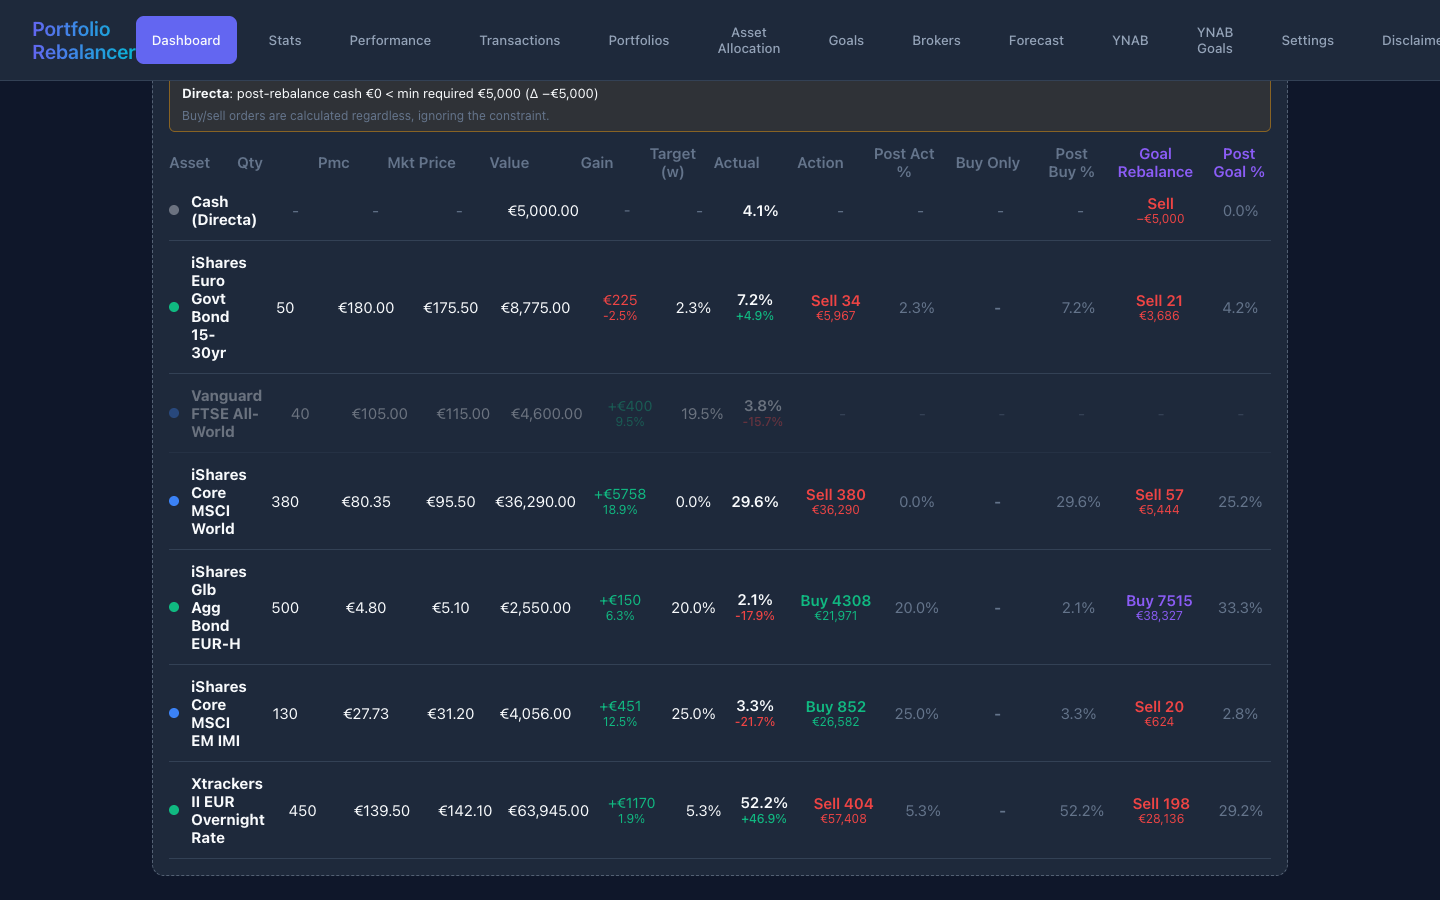
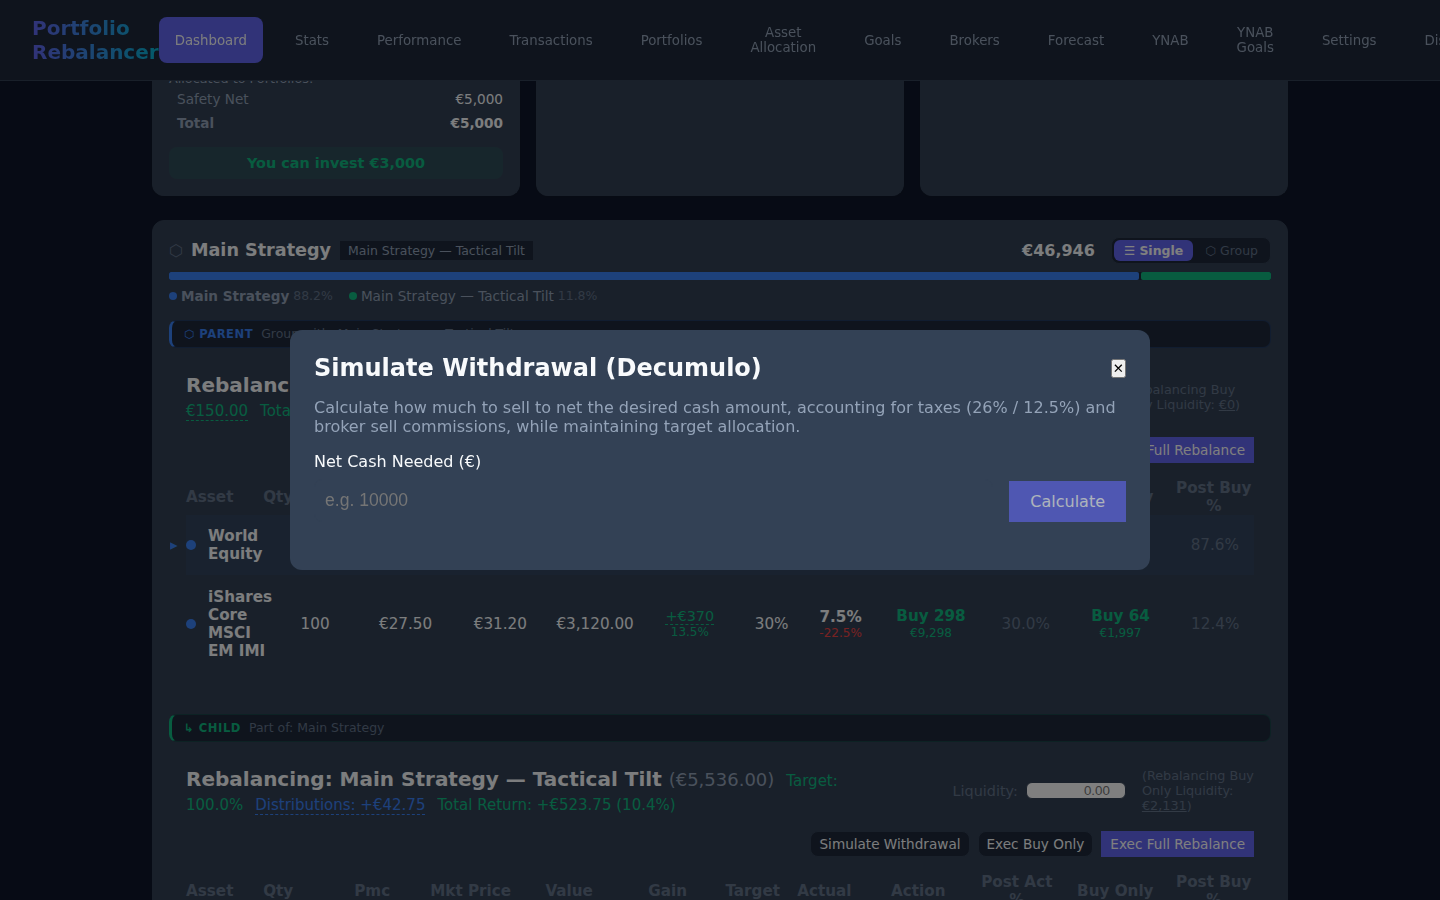
Fix Withdrawal Simulation screenshot and document Broker commission/liquidity config
- dashboard_withdrawal_simulation.png now shows the actual Simulate
  Withdrawal popup instead of the rebalancing table behind it.
- Add a new screenshot showing the Edit Broker modal with the
  Commission Plan and Minimum Liquidity Target/allocations, and
  reference it from the Brokers section.
- Update take_screenshots.js to capture both via the real UI flows.

https://claude.ai/code/session_0179nJzqZZXQDMm5LsQmirD2

diff --git a/scripts/take_screenshots.js b/scripts/take_screenshots.js
@@ -98,17 +98,24 @@ async function scrollAndShoot(page, base) {
   await sleep(800);
   await scrollAndShoot(page, 'dashboard');
 
-  // Withdrawal simulation: find a button or section labeled accordingly
-  await page.evaluate(() => window.scrollTo(0, document.documentElement.scrollHeight));
-  await sleep(400);
-  await page.evaluate(() => {
-    const el = [...document.querySelectorAll('h2,h3,h4')].find((h) =>
-      /withdrawal/i.test(h.textContent)
+  // Withdrawal simulation: open the "Simulate Withdrawal" popup
+  const withdrawalClicked = await page.evaluate(() => {
+    const btn = [...document.querySelectorAll('button')].find((b) =>
+      /simulate withdrawal/i.test(b.textContent)
     );
-    if (el) el.scrollIntoView({ block: 'center' });
+    if (btn) {
+      btn.scrollIntoView({ block: 'center' });
+      btn.click();
+      return true;
+    }
+    return false;
   });
-  await sleep(400);
-  await shot(page, 'dashboard_withdrawal_simulation');
+  if (withdrawalClicked) {
+    await sleep(600);
+    await shot(page, 'dashboard_withdrawal_simulation');
+    await page.keyboard.press('Escape');
+    await sleep(300);
+  }
 
   // ---------- STATS ----------
   console.log('Stats');
@@ -286,6 +293,21 @@ async function scrollAndShoot(page, base) {
   await navTo(page, 'Brokers');
   await sleep(700);
   await shot(page, 'brokers_page');
+  // Edit Broker modal — shows commission plan & minimum liquidity settings
+  const brokerEditClicked = await page.evaluate(() => {
+    const btn = document.querySelector('button[title*="Edit" i], button[aria-label*="Edit" i]');
+    if (btn) {
+      btn.click();
+      return true;
+    }
+    return false;
+  });
+  if (brokerEditClicked) {
+    await sleep(500);
+    await shot(page, 'brokers_edit_modal');
+    await page.keyboard.press('Escape');
+    await sleep(300);
+  }
 
   // ---------- FORECAST ----------
   console.log('Forecast');

diff --git a/README.md b/README.md
@@ -199,6 +199,10 @@ Manage brokers, their commission model and their cash positions.
 - **Liquidity tracking** — available cash per broker, with an optional **minimum threshold** the forecast and rebalancer respect.
 - **Liquidity allocations** — earmark part of a broker's cash to specific portfolios.
 
+Editing a broker lets you configure its **commission rules** (fixed fee, or percentage with optional min/max) and the **minimum liquidity** to keep on hand, either as a percentage of the broker's value or a fixed amount, optionally split across portfolios:
+
+![Edit broker — commission & minimum liquidity](screenshots/brokers_edit_modal_commission.png)
+
 ### Forecast
 
 Project net worth and liquidity over a configurable horizon.